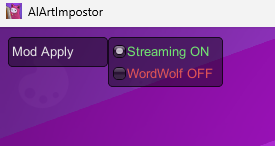
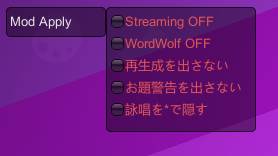
導入確認画面のスクショ更新、お題一覧のマニュアルに図を追加

diff --git a/manual/mod-show-theme-list.md b/manual/mod-show-theme-list.md
@@ -18,8 +18,10 @@
 
 ## 使い方
 
-1. 試合中に **「ShowList」** ボタンをクリックする
+1. 試合中に **「ShowList」** ボタンをクリックする  
+  ![](./images/show_list_button.png)  
 2. お題の一覧が表示される
+  ![](./images/subject_list.png)  
 3. **「Back」** ボタンで閉じる
 
 > **注意:** 「Back」を押さない限り、一覧は表示されたままになります。
